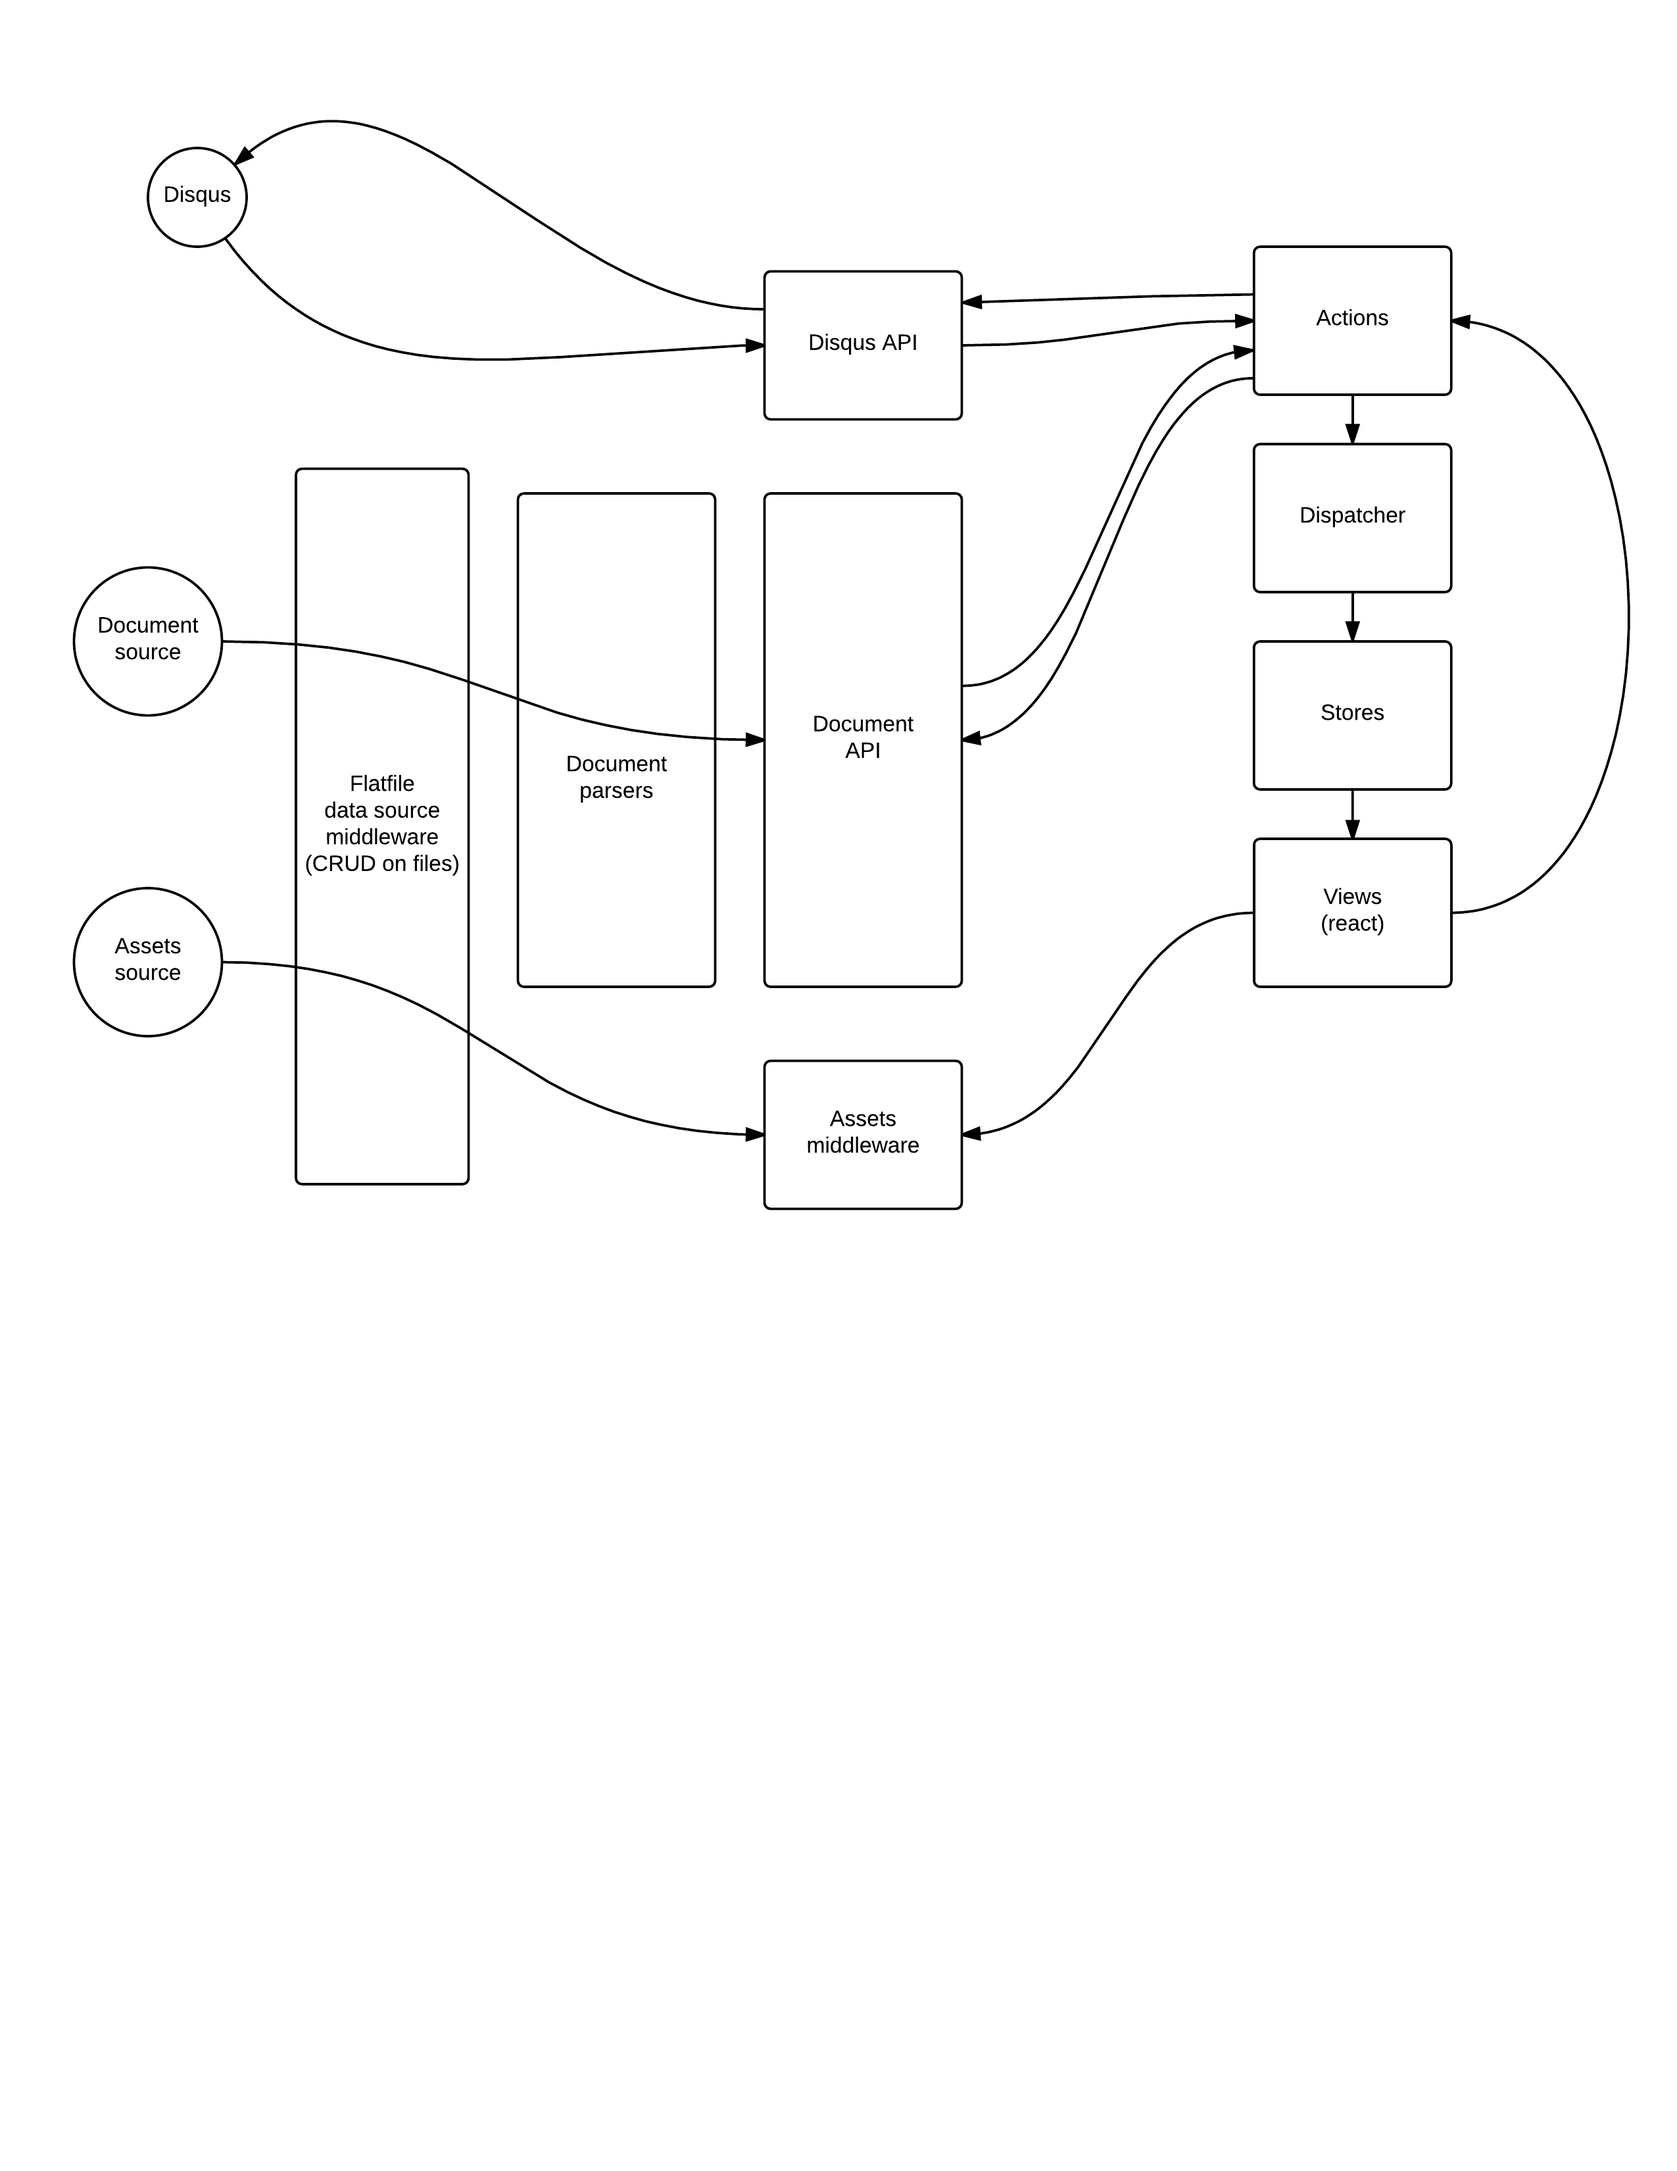
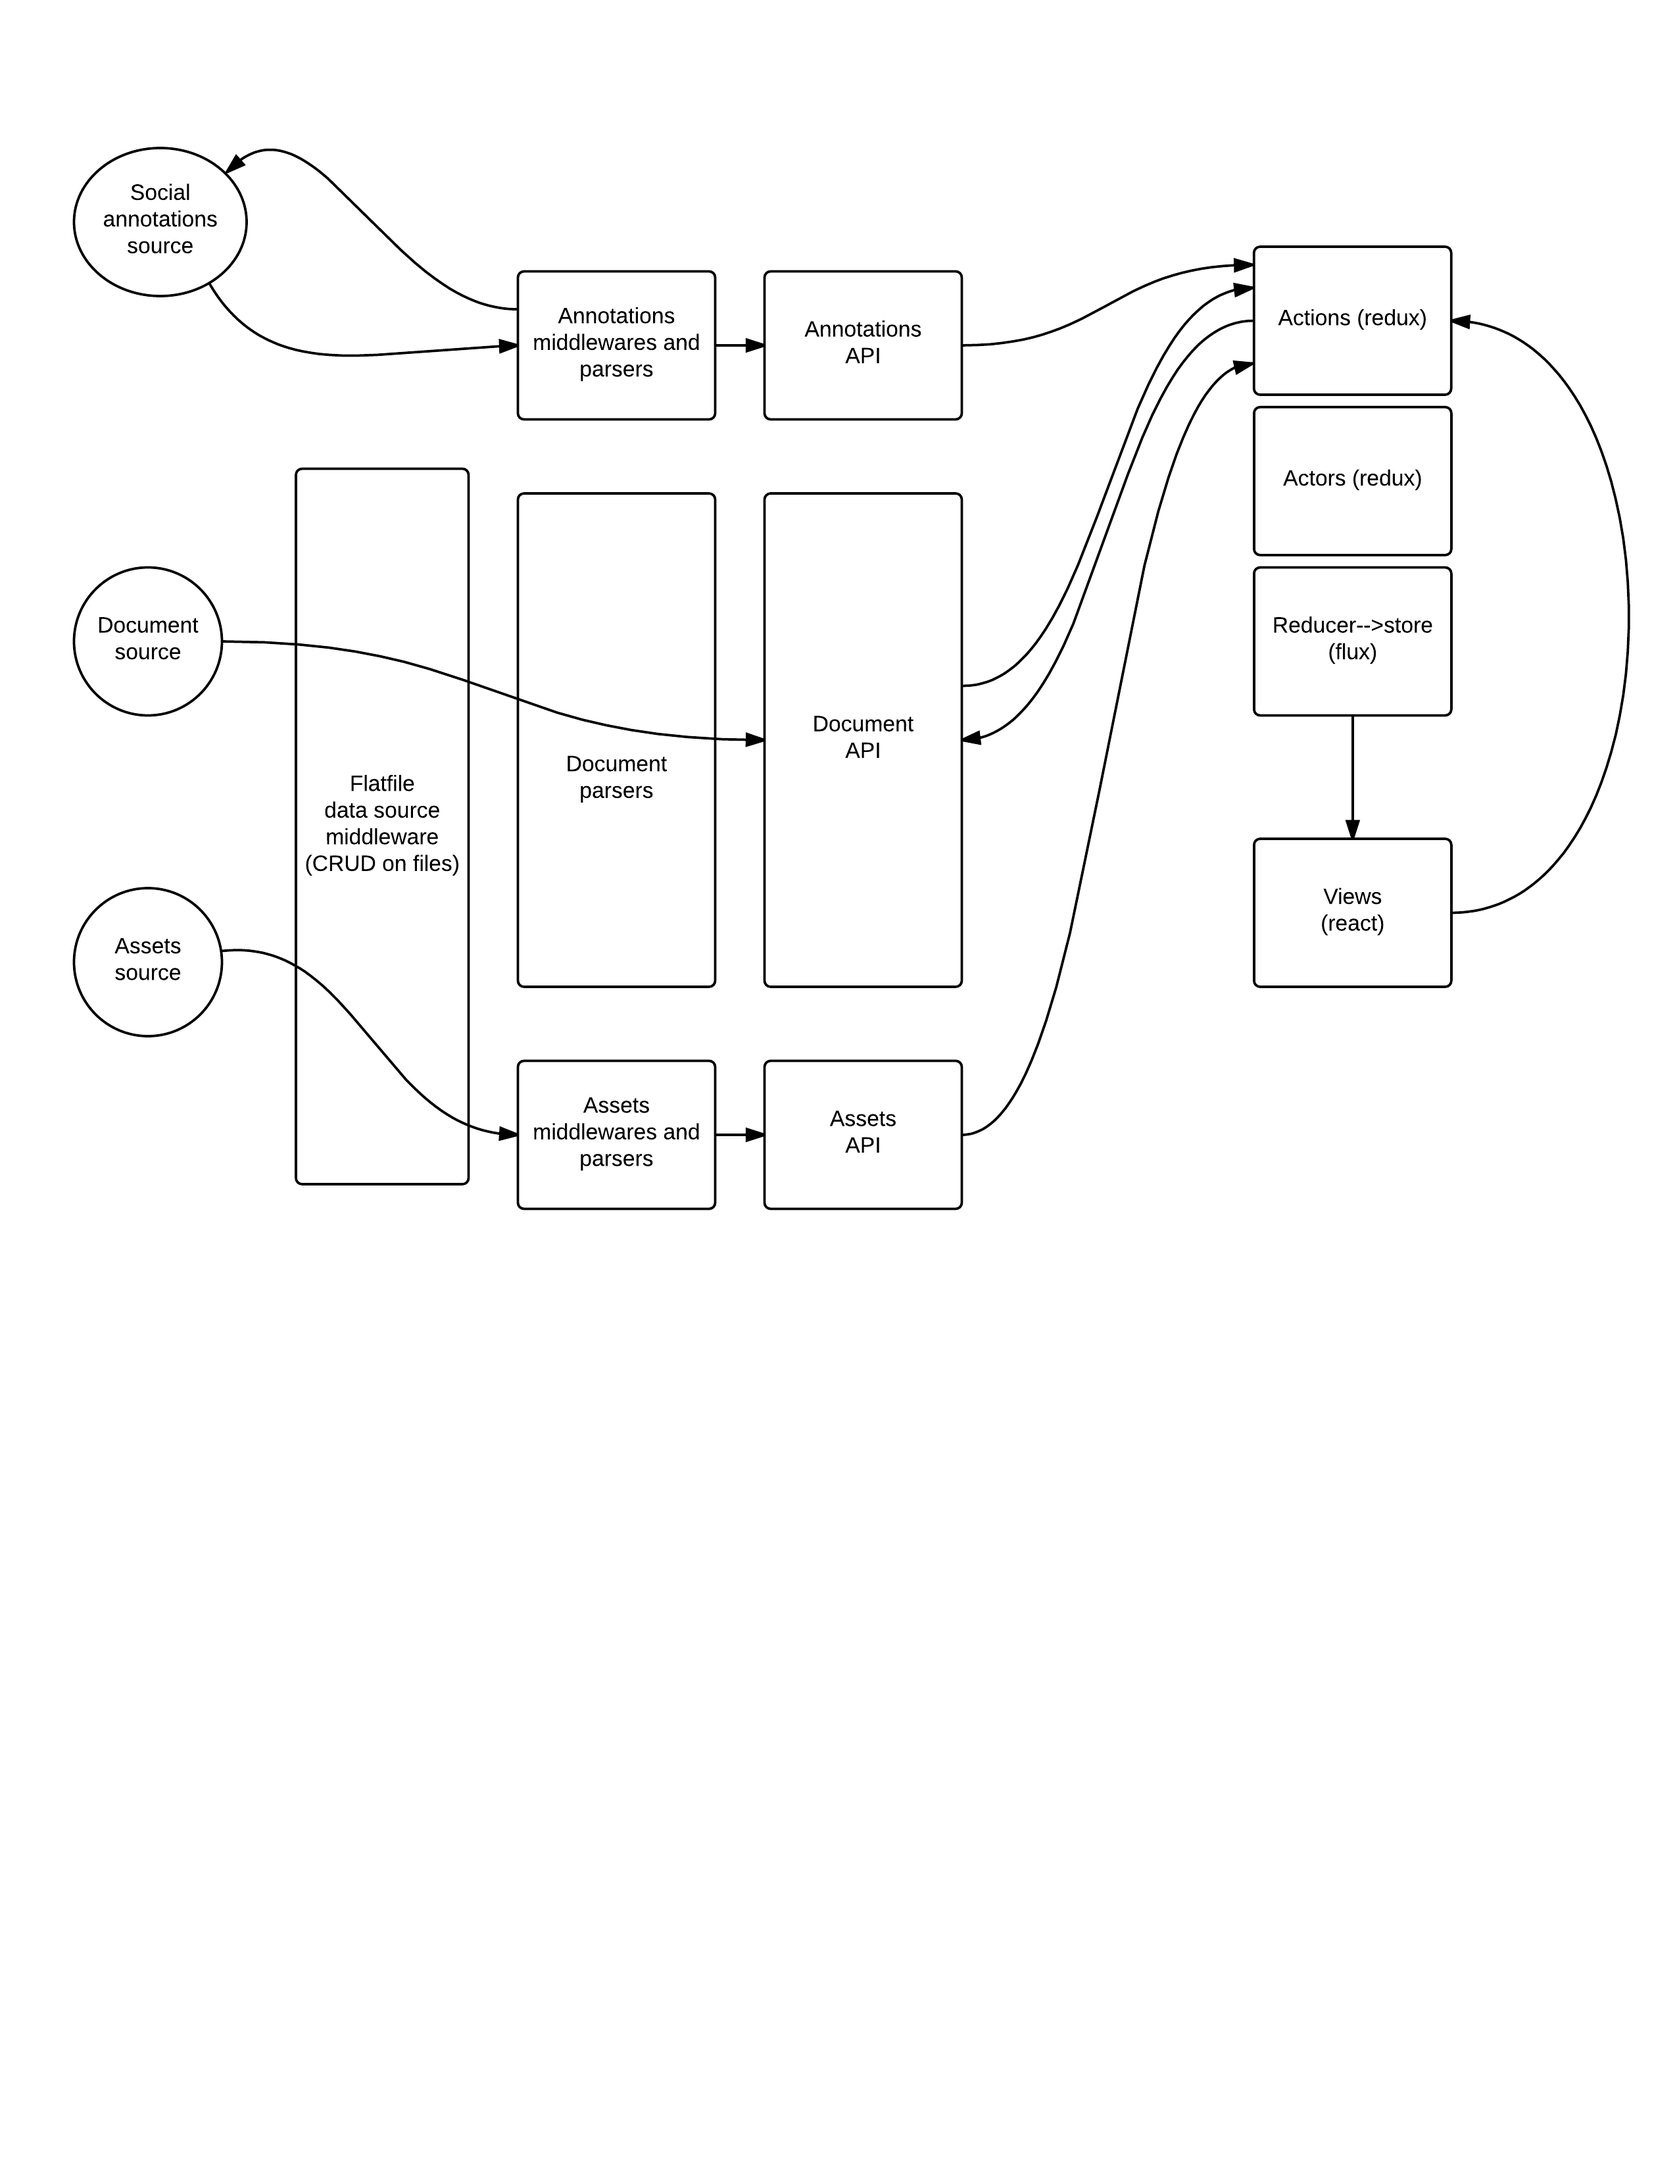
updated according to redux readings and the (instable for now) choice of adopting unicorn standard architecture for the app

diff --git a/specification/sections/doc-technical_structure.md b/specification/sections/doc-technical_structure.md
@@ -4,9 +4,9 @@ Modulo documentation | technical structure | WIP
 
 # Requirements
 
-Modularity of the convertions model and data access :
+Modularity of the data parsing model and data access :
 
-* modulo is purposed to be source-agnostic, and not indispensable for source reviewing (data should be easily readable, even without modulo)
+* modulo is purposed to be source-agnostic, and not indispensable for source reviewing (data should be easily readable without using modulo)
 * data access, data management and data processing should be separated
 * data models (for metadata, markdown, referencing) should be encoded in separate data files (.csv, .json) from the code
 * external resources transactions (zotero, google spreadsheet ...) should be clearly separated from the core of the engine
@@ -16,19 +16,39 @@ Flatfile-to-rich-document process:
 * document parsers should be lazy and process only the necessary data for a given query
 * document parsers should not perform several times the same operations on files
 
+SEO and indexability :
+* app must be isomorphic/universal (all views rendered as html server-side)
+* html schema props must be used whenever possible
+
+Social :
+* all the internal data logic of a publication should be available as a public API
+* should be possible to share specific parts of the document with different levels of granularity
+* should be possible to access through permalinks specific parts of the document with different levels of granularity
+
 
 Scalability and project evolution:
+* it should be internationalized from the begining
+* it should be test-driven from the begining
 * it should be easily scalable (library, collection, ...) later on
 * it should be able to welcome a further possible editing back-office interface
 * it should be easily convertible into a SaaS platform
 
-# Global architecture : flux architecture
+# Global architecture : flux/redux architecture
 
 Flux architecture is not required for the v1 of the project, as it is a read-only app, not dynamically supporting data-intensive operations.
 
 Though, this architecture would ensure maximum scalability for the future.
 
 ![Modulo architecture](https://raw.githubusercontent.com/robindemourat/modulo/master/specification/assets/modulo-architecture.png)
+
+# Envisionned technologies
+
+* Redux for global architecture handling
+* React for components rendering
+* (possibly) Atomizer for component-based styling
+* (possibly) Pacomo for styling management
+* zotero-bib-parser and bib-parser for ... bib parsing
+
 
 # Data sources purposes
 
@@ -68,28 +88,20 @@ The game of Modulo is to enable writing of a document in a "traditional", linear
 
 When resources have been described, modulo should provide with a (most uniform possible) way of contextualizing resources.
 
+### Reloading process
 
-# Forseen code structure elements (not finished)
+1. list all the files tree of contents directory
+2. load all the string text content of the files
+3. parse the content files and extract resource data (.bib, ...) and concatenate it with raw resource contents
+4. parse each file separately according to its type
+5. resolve properties and resources cascading
+6. possibly link data if needed 
 
-```
-.
-+--api
-|   +--queries //all utils for preparing API responses
-|   +--routes //index and controllers for the different API views
-    |   +--someRoute
-+--config //dev and prod configs + application sources (for contents, assets, and comments : flatfile, s3, disqus ...)
-+--credentials //all private credentials (zotero, google analytics, data sources, ...)
-+--contents //documents contents
-+--htmltemplates//html templates to use and populate
-+--plugins//data communication and middlewares
-|   +--flatfile //handle CRUD on flatfiles
-|   +--s3//handle CRUD on S3
-|   +--zotero //handle zotero querying and templating
-+--models //default templating, markdown and metadata models
-+--parsers //string parsers : metadata parser, figure/resource parser, modulo-markdown parser, ...
-+--routes.js //handle classical routes
-```
+### Data source middleware
 
+Should all provide with two simple methods :
+* list the contents of a folder
+* get the string content of a text file
 
 ### Metadata file parser
 
@@ -128,6 +140,43 @@ It should return several things :
 * html representation of the table of contents
 * json library of the modulo resources used
 
+
+
+
+# Forseen code structure (instable)
+
+Everything here should be in a src/ file distinct from built code :
+
+```
+.
+|+--appConfig //everything related to the bootstrapping and specification of the app
+|   +--default-models //default templating, markdown and metadata models for the application
+|   +--config.json //dev and prod configs + application sources (for contents, assets, and comments : flatfile, s3, disqus ...)
+|   +--credentials.json //all private credentials (zotero, google analytics, data sources, ...)
++--utils//everything not related to the app itself
+|   +--middlewares
+|       +--local //handle flatfiles management on local server files
+|       +--s3//handle flatfiles management on S3
+|       +--drive//handle flatfiles management on drive
+|       +--ftp//handle flatfiles management on ftp
+|       +--github//handle flatfiles management on github
+|   +--parsers //string parsers : metadata parser, figure/resource parser, modulo-markdown parser, ...
+|+--apis //expose APIs for transactions with different sources (contents, assets, annotations)
+|       +--annotationsApi
+|       +--contentsApi
+|       +--assetsApi
+
+|+--actions // Redux action creators
+|+--actors // Handle changes to the store's state
+|+--components // React components, stateless where possible
+|+--constants // Define stateless data
+|+--containers // Unstyled "smart" components which take the store's state and * dispatch, and possibly navigation location, and pass them to "dumb" components
+|+--reducers // Redux reducers
+|+--static // Files which will be copied across to the root directory on build
+|+--styles // Helpers for stylesheets for individual components
+|+--validators // Functions which take an object containing user entry and return an object containing any errors
+```
+
 # (client) routes access
 
 public/** should be freely accessible
@@ -160,6 +209,7 @@ rooturl/:slug
 ```
 
 --> will serve a particular document or a 404 screen
+
 
 
 # Forseen API endpoints (read-only for now)
@@ -219,4 +269,24 @@ GET root/api/search/
 | filter | coma-separated filters |
 
 
+# "Read mode" interface structure
 
+Grounding on [first interface](http://modesofexistence.org/anomalies) and rapid prototyping/wireframing of the new reader (https://marvelapp.com/5212b6g)
+
+React components hierarchy :
+
+```
+- navbar
+    - logo and title
+    - search block
+    - table of contents
+    - views related links
+- main column
+    - (loop) content blocks
+    - (loop) sidenotes
+    - footer
+- aside column
+    - header
+    - body
+    - footer
+```
